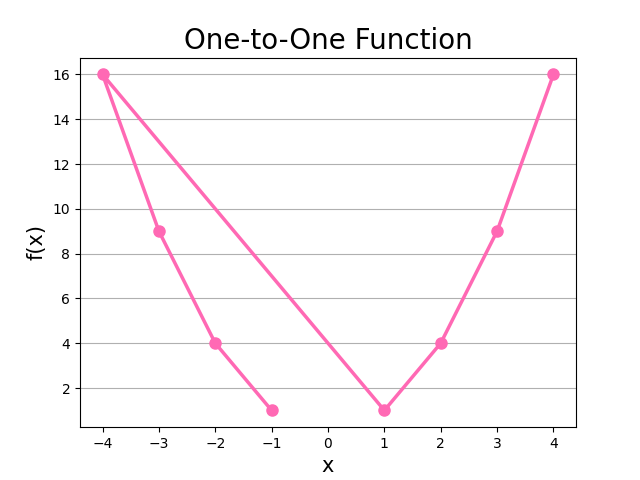
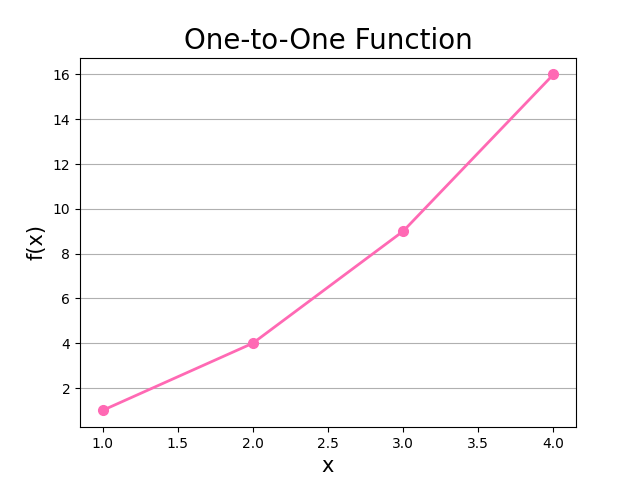
Update BijectivePlot function and save plot with correct filename

diff --git a/Functions Code/Bijective.py b/Functions Code/Bijective.py
@@ -44,7 +44,7 @@ def BijectivePlot(func, dom, codom):
     plt.ylabel('f(x)' , fontdict = font1)
     plt.title('Bjiective Function', fontdict = font2)
     plt.grid(axis = 'y')
-    plt.savefig('bijective.png')    
+    plt.savefig('Bijective.png')    
     
 def f(x):
     return 2 * x
